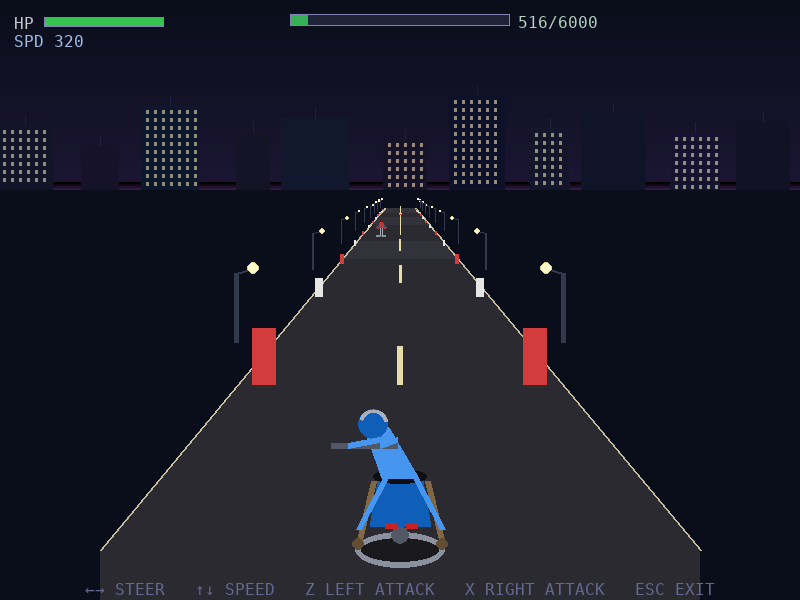
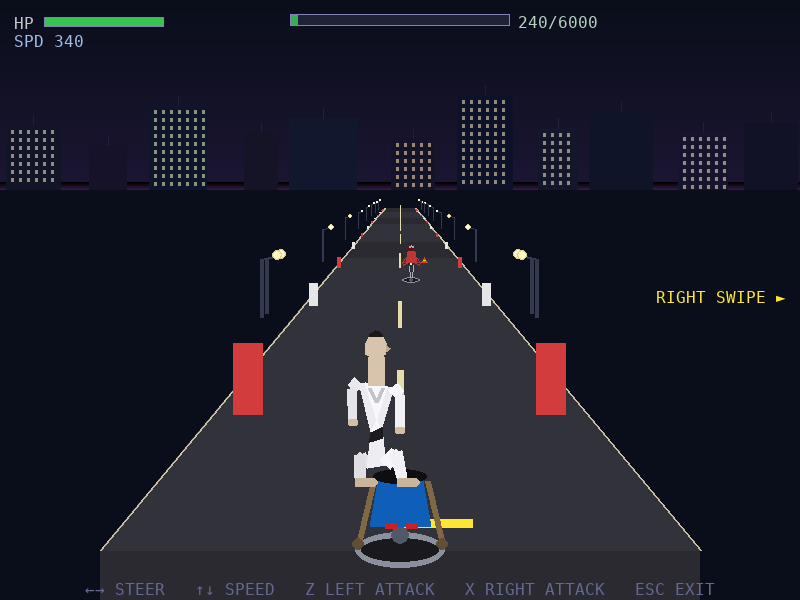
Update moto rider to use draw_fighter karate character, update README screenshot 3
Agent-Logs-Url: https://github.com/julesdg6/quad-fighter/sessions/ab3f9118-ec39-4729-8c64-05eed673fdea

diff --git a/moto_level.py b/moto_level.py
@@ -22,6 +22,8 @@ import random
 
 import pygame
 
+from render import draw_fighter
+
 # ── Pseudo-3D projection constants ────────────────────────────────────────────
 _HORIZON_Y  = 190      # screen-y of the vanishing horizon
 _FOCAL      = 300.0    # focal length  (world units ≈ pixels at scale 1)
@@ -89,6 +91,33 @@ _ENM_HIT_COL = (255, 200, 200)
 _BOSS_COL    = (200,  80, 180)
 _OBS_COL     = (90,  180,  60)
 _HIT_COL     = (255, 230,  50)
+
+# Palette matching the main game's player character (karate fighter)
+_PLAYER_PALETTE = {
+    "chest":           (236, 236, 240),
+    "torso":           (248, 248, 252),
+    "pelvis":          (238, 238, 242),
+    "belt":            (28,  28,  30),
+    "head":            (216, 196, 172),
+    "face":            (188, 168, 145),
+    "hair":            (28,  24,  20),
+    "front_arm_upper": (248, 248, 252),
+    "front_arm_lower": (242, 242, 246),
+    "rear_arm_upper":  (232, 232, 238),
+    "rear_arm_lower":  (228, 228, 234),
+    "front_leg_upper": (246, 246, 250),
+    "front_leg_lower": (240, 240, 246),
+    "rear_leg_upper":  (228, 228, 234),
+    "rear_leg_lower":  (222, 222, 228),
+    "hands":           (212, 190, 162),
+    "feet":            (202, 180, 154),
+    "head_scale":      0.93,
+    "shoulder_ratio":  0.26,
+    "hip_ratio":       0.14,
+    "arm_width":       0.19,
+    "leg_width":       0.22,
+    "idle_tilt":       0.01,
+}
 
 
 # ── Projection helper ─────────────────────────────────────────────────────────
@@ -363,7 +392,7 @@ def _draw_road(screen, width, height, cx, road_offset, curve=0.0):
 
 # ── Bike / rider rendering ────────────────────────────────────────────────────
 
-def _draw_bike(screen, sx, sy, scale, color, facing, lean=0):
+def _draw_bike(screen, sx, sy, scale, color, facing, lean=0, draw_rider=True):
     """Draw a polygon motorcycle + rider.
 
     facing:  1 = front-on (enemy approaching),  -1 = rear view (player)
@@ -423,52 +452,53 @@ def _draw_bike(screen, sx, sy, scale, color, facing, lean=0):
                              (bx + tx_off, frame_base - s(1), s(4), s(2)))
 
         # ── Rider ────────────────────────────────────────────────────────────
-        hip_y = seat_y + s(1)
-        fwd   = s(8)            # forward lean of the torso
+        if draw_rider:
+            hip_y = seat_y + s(1)
+            fwd   = s(8)            # forward lean of the torso
 
-        # Torso
-        t_top_x = bx - fwd
-        t_top_y = hip_y - s(17)
-        pygame.draw.polygon(screen, color, [
-            (bx - s(6),       hip_y),
-            (bx + s(6),       hip_y),
-            (bx + s(4) - fwd, t_top_y),
-            (bx - s(4) - fwd, t_top_y),
-        ])
+            # Torso
+            t_top_x = bx - fwd
+            t_top_y = hip_y - s(17)
+            pygame.draw.polygon(screen, color, [
+                (bx - s(6),       hip_y),
+                (bx + s(6),       hip_y),
+                (bx + s(4) - fwd, t_top_y),
+                (bx - s(4) - fwd, t_top_y),
+            ])
 
-        # Helmet
-        hr = s(5)
-        hx = t_top_x - s(1)
-        hy = t_top_y - s(1)
-        pygame.draw.circle(screen, dark, (hx, hy), hr)
-        pygame.draw.arc(screen, chrome,
-                        (hx - hr, hy - hr, hr * 2, hr * 2),
-                        0.2, 2.8, max(1, s(1)))
+            # Helmet
+            hr = s(5)
+            hx = t_top_x - s(1)
+            hy = t_top_y - s(1)
+            pygame.draw.circle(screen, dark, (hx, hy), hr)
+            pygame.draw.arc(screen, chrome,
+                            (hx - hr, hy - hr, hr * 2, hr * 2),
+                            0.2, 2.8, max(1, s(1)))
 
-        # Handlebars
-        bar_x  = bx - fwd - s(4)
-        bar_y  = hip_y - s(11)
-        bar_hw = s(11)
-        pygame.draw.line(screen, metal,
-                         (bar_x - bar_hw, bar_y),
-                         (bar_x + bar_hw, bar_y), max(1, s(2)))
+            # Handlebars
+            bar_x  = bx - fwd - s(4)
+            bar_y  = hip_y - s(11)
+            bar_hw = s(11)
+            pygame.draw.line(screen, metal,
+                             (bar_x - bar_hw, bar_y),
+                             (bar_x + bar_hw, bar_y), max(1, s(2)))
 
-        # Arms
-        arm_root_x = bx - s(3) - fwd // 2
-        arm_root_y = t_top_y + s(4)
-        pygame.draw.line(screen, color,
-                         (arm_root_x, arm_root_y),
-                         (bar_x - bar_hw // 2, bar_y), max(1, s(2)))
-        pygame.draw.line(screen, color,
-                         (arm_root_x + s(6), arm_root_y),
-                         (bar_x + bar_hw // 2, bar_y), max(1, s(2)))
-
-        # Legs (pegs on either side)
-        for side in (-1, 1):
-            knee = (bx + side * s(14), sy - s(7))
+            # Arms
+            arm_root_x = bx - s(3) - fwd // 2
+            arm_root_y = t_top_y + s(4)
             pygame.draw.line(screen, color,
-                             (bx + side * s(5), hip_y), knee,
-                             max(1, s(2)))
+                             (arm_root_x, arm_root_y),
+                             (bar_x - bar_hw // 2, bar_y), max(1, s(2)))
+            pygame.draw.line(screen, color,
+                             (arm_root_x + s(6), arm_root_y),
+                             (bar_x + bar_hw // 2, bar_y), max(1, s(2)))
+
+            # Legs (pegs on either side)
+            for side in (-1, 1):
+                knee = (bx + side * s(14), sy - s(7))
+                pygame.draw.line(screen, color,
+                                 (bx + side * s(5), hip_y), knee,
+                                 max(1, s(2)))
 
     else:
         # ── Front view (enemy) ───────────────────────────────────────────────
@@ -510,38 +540,39 @@ def _draw_bike(screen, sx, sy, scale, color, facing, lean=0):
                          (fx + bar_hw, bar_y),
                          (fx + bar_hw - s(2), bar_y + s(3)), max(1, s(1)))
 
-        # Rider torso
-        t_top = bar_y - s(15)
-        pygame.draw.polygon(screen, color, [
-            (fx - s(7), bar_y),
-            (fx + s(7), bar_y),
-            (fx + s(4), t_top),
-            (fx - s(4), t_top),
-        ])
+        # Rider torso (front-facing, enemy)
+        if draw_rider:
+            t_top = bar_y - s(15)
+            pygame.draw.polygon(screen, color, [
+                (fx - s(7), bar_y),
+                (fx + s(7), bar_y),
+                (fx + s(4), t_top),
+                (fx - s(4), t_top),
+            ])
 
-        # Helmet
-        hr    = s(5)
-        helm_y = t_top - hr
-        pygame.draw.circle(screen, dark, (fx, helm_y), hr)
-        pygame.draw.arc(screen, chrome,
-                        (fx - hr, helm_y - hr, hr * 2, hr * 2),
-                        0.2, 2.8, max(1, s(1)))
+            # Helmet
+            hr    = s(5)
+            helm_y = t_top - hr
+            pygame.draw.circle(screen, dark, (fx, helm_y), hr)
+            pygame.draw.arc(screen, chrome,
+                            (fx - hr, helm_y - hr, hr * 2, hr * 2),
+                            0.2, 2.8, max(1, s(1)))
 
-        # Arms reaching to handlebars
-        arm_y = t_top + s(5)
-        pygame.draw.line(screen, color,
-                         (fx - s(4), arm_y), (fx - bar_hw, bar_y),
-                         max(1, s(2)))
-        pygame.draw.line(screen, color,
-                         (fx + s(4), arm_y), (fx + bar_hw, bar_y),
-                         max(1, s(2)))
-
-        # Legs
-        for side in (-1, 1):
-            knee = (fx + side * s(11), bar_y + s(5))
+            # Arms reaching to handlebars
+            arm_y = t_top + s(5)
             pygame.draw.line(screen, color,
-                             (fx + side * s(5), bar_y), knee,
+                             (fx - s(4), arm_y), (fx - bar_hw, bar_y),
                              max(1, s(2)))
+            pygame.draw.line(screen, color,
+                             (fx + s(4), arm_y), (fx + bar_hw, bar_y),
+                             max(1, s(2)))
+
+            # Legs
+            for side in (-1, 1):
+                knee = (fx + side * s(11), bar_y + s(5))
+                pygame.draw.line(screen, color,
+                                 (fx + side * s(5), bar_y), knee,
+                                 max(1, s(2)))
 
 
 def _draw_obstacle(screen, sx, sy, scale, kind):
@@ -930,7 +961,31 @@ class MotoLevel:
             pygame.draw.line(self.screen, _HIT_COL,
                              (sx, arm_y), (arm_x, arm_y),
                              max(1, int(3 * sc)))
-        _draw_bike(self.screen, sx, sy, sc, _PLR_COL, -1, self._lean)
+        _draw_bike(self.screen, sx, sy, sc, _PLR_COL, -1, self._lean,
+                   draw_rider=False)
+
+        # Draw the karate fighter (same character as the main game) on the bike seat.
+        # The fighter is shown in side-view, seated in a crouched riding stance.
+        s_val = float(sc)
+        char_w = max(16, int(22 * s_val))
+        char_h = max(32, int(48 * s_val))
+        seat_y = sy - max(1, int(25 * s_val))
+        hip_y_rider = seat_y + max(1, int(1 * s_val))
+        fwd_off = max(1, int(8 * s_val))
+        cx_char = sx - fwd_off + self._lean * max(1, int(4 * s_val))
+        body_rect = pygame.Rect(
+            cx_char - char_w // 2,
+            hip_y_rider - char_h,
+            char_w,
+            char_h,
+        )
+        draw_fighter(
+            self.screen,
+            body_rect=body_rect,
+            facing=1,
+            palette=_PLAYER_PALETTE,
+            pose="crouch",
+        )
 
     def _draw_hit_flashes(self):
         for x, y, t in self._hit_flashes:

diff --git a/README.md b/README.md
@@ -46,9 +46,9 @@ python main.py
 
 ![Combat hit feedback](docs/screenshots/combat-hit-feedback.png)
 
-### Level Polish Pass
+### Moto Level
 
-![Level polish](docs/screenshots/level-polish.png)
+![Moto level](docs/screenshots/moto-scene.png)
 
 ## Features Implemented
 
